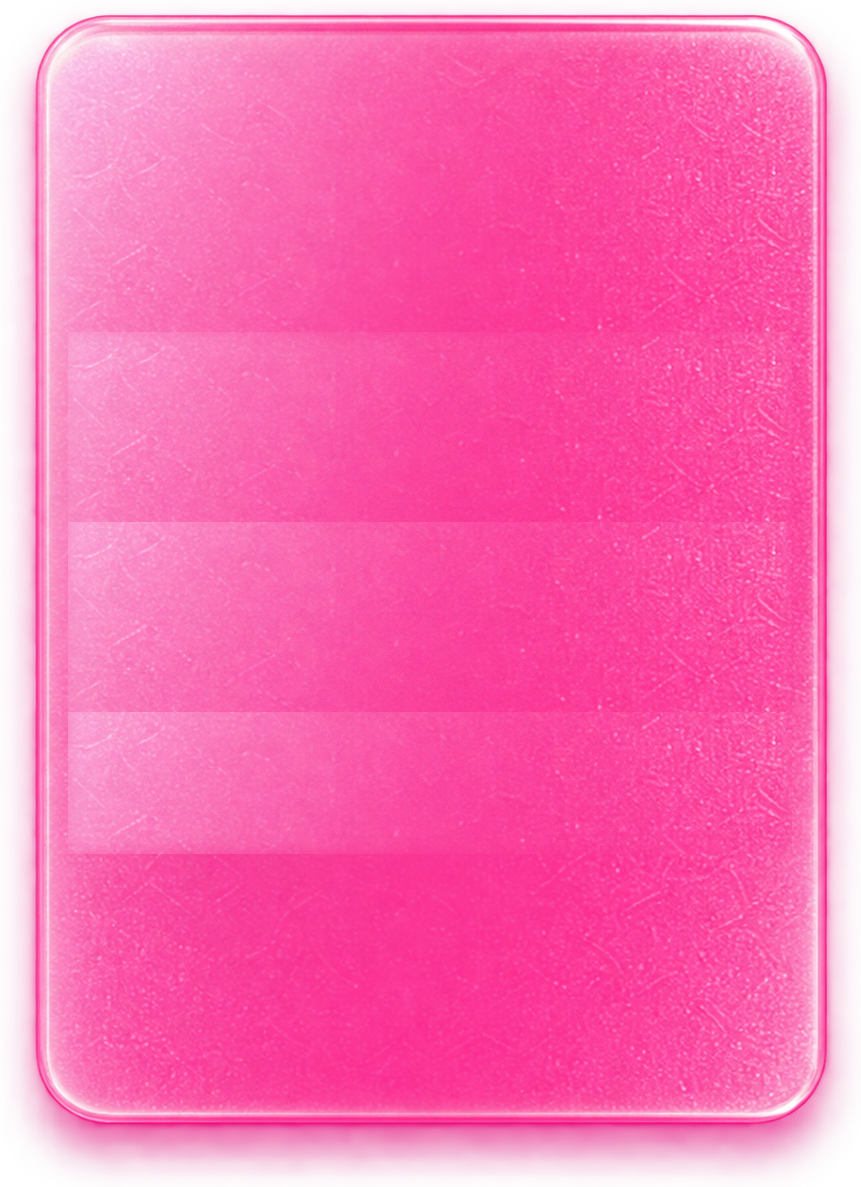
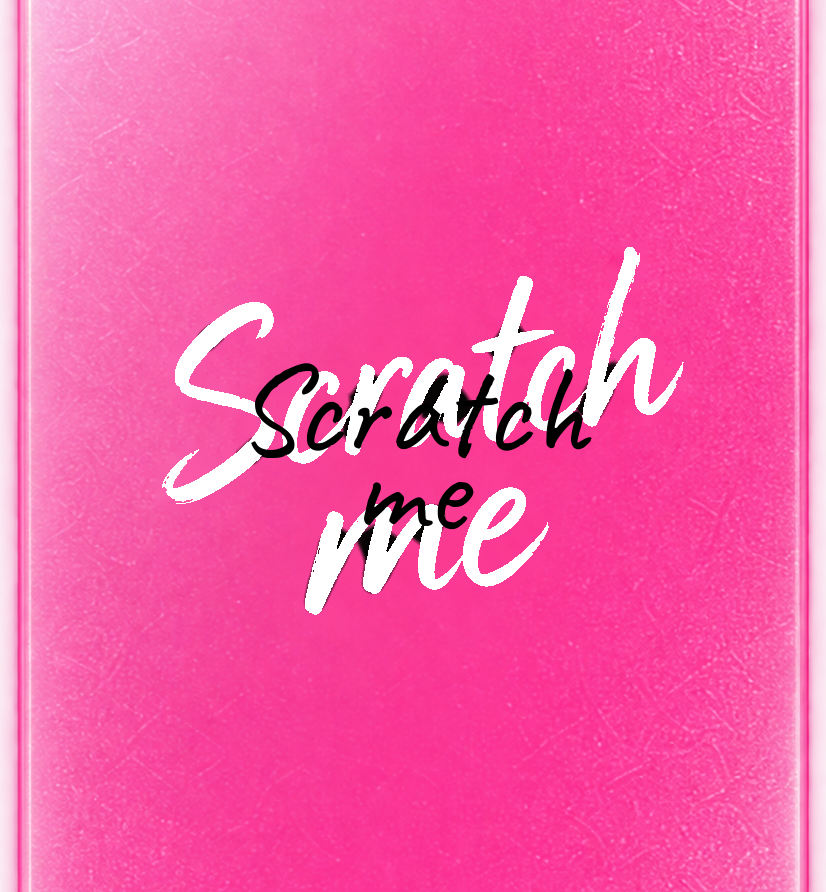
Unify compact scratch card and remove overlay light bars
Restore a smooth frosted overlay without tiled highlight bands, share
one fixed rounded wrapper for before/after states, and tighten the
white QR reveal so Scan Me sits closer with less empty space.

diff --git a/desktop-gate/styles.css b/desktop-gate/styles.css
@@ -94,7 +94,7 @@
     pointer-events: none;
   }
 
-  /* Scratch / QR — centred under “Designed to be held.” */
+  /* Scratch / QR — one shared outer card for before + after */
   .desktop-gate__qr-unit {
     position: absolute;
     left: 35.8%;
@@ -105,60 +105,60 @@
   }
 
   .scratch-card {
-    /* ~150% of prior clamp(4.5rem, 8.2vw, 6rem); aspect from overlay PNG */
     --scratch-w: clamp(6.75rem, 12.3vw, 9rem);
+    /* Compact soft-square — matches restored overlay aspect (~1.16) */
+    --scratch-ratio: 1.08;
+    --scratch-radius: 1.05rem;
     position: relative;
     width: var(--scratch-w);
-    height: calc(var(--scratch-w) * 1.379);
-    background: transparent !important;
-    border: 0 !important;
-    outline: none !important;
-    padding: 0 !important;
+    height: calc(var(--scratch-w) * var(--scratch-ratio));
+    background: transparent;
+    border: 0;
+    outline: none;
+    padding: 0;
     margin: 0;
-    overflow: visible;
-    box-shadow: none !important;
+    border-radius: var(--scratch-radius);
+    overflow: hidden;
+    box-shadow: 0 10px 22px rgba(60, 5, 30, 0.18);
   }
 
-  /*
-    White QR reveal — strictly inset to the opaque card body so it
-    cannot show through the PNG’s transparent glow / rounded corners.
-  */
+  /* White QR reveal — same outer footprint as the scratch overlay */
   .scratch-card__face {
     position: absolute;
     z-index: 0;
-    left: 4.2%;
-    right: 4.1%;
-    top: 1.35%;
-    bottom: 5.3%;
+    inset: 0;
     display: flex;
     flex-direction: column;
     align-items: center;
     justify-content: flex-start;
     box-sizing: border-box;
-    padding: 11% 11% 10%;
+    padding: 7% 8% 5%;
     margin: 0;
+    gap: 0.22em;
     background: #ffffff;
     border: 0;
     outline: none;
-    border-radius: 22%;
+    border-radius: inherit;
     box-shadow: none;
   }
 
   .scratch-card__qr {
     display: block;
-    width: 100%;
+    width: 80%;
     height: auto;
     aspect-ratio: 1;
     object-fit: contain;
+    flex-shrink: 0;
+    margin-top: 0;
     pointer-events: none;
     user-select: none;
     -webkit-user-drag: none;
   }
 
   .scratch-card__label {
-    margin: 0.45em 0 0;
+    margin: 0;
     font-family: "Instrument Sans", system-ui, sans-serif;
-    font-size: clamp(0.72rem, 1.2vw, 0.95rem);
+    font-size: clamp(0.7rem, 1.15vw, 0.9rem);
     font-weight: 700;
     letter-spacing: -0.01em;
     line-height: 1;
@@ -175,12 +175,12 @@
     display: block;
     touch-action: none;
     cursor: crosshair;
-    background: transparent !important;
-    border: 0 !important;
-    outline: none !important;
+    background: transparent;
+    border: 0;
+    outline: none;
     padding: 0;
     margin: 0;
-    /* PNG already includes its own soft shadow — no CSS glow/halo */
+    border-radius: inherit;
     filter: none;
     box-shadow: none;
   }

diff --git a/desktop-gate/gate.js b/desktop-gate/gate.js
@@ -51,27 +51,8 @@
       ctx.globalCompositeOperation = "source-over";
       ctx.clearRect(0, 0, canvas.width, canvas.height);
       ctx.setTransform(dpr, 0, 0, dpr, 0, 0);
-      // Frosted card PNG (no baked lettering)
+      // Supplied frosted overlay PNG (smooth frost + solid black script)
       ctx.drawImage(overlayImg, 0, 0, cssW, cssH);
-
-      // Clean solid-black script only — no stroke, shadow, or duplicate layer
-      const size = Math.max(18, cssW * 0.168);
-      const lineGap = size * 0.92;
-      ctx.fillStyle = "#000000";
-      ctx.textAlign = "center";
-      ctx.textBaseline = "middle";
-      ctx.font = '600 ' + size + 'px "Caveat", "Segoe Script", cursive';
-      // Reset any leftover canvas text effects
-      ctx.shadowColor = "transparent";
-      ctx.shadowBlur = 0;
-      ctx.shadowOffsetX = 0;
-      ctx.shadowOffsetY = 0;
-      ctx.lineWidth = 0;
-      const cx = cssW / 2;
-      const cy = cssH / 2 - cssH * 0.01;
-      ctx.fillText("Scratch", cx, cy - lineGap * 0.45);
-      ctx.fillText("me", cx, cy + lineGap * 0.55);
-
       initialAlpha = ctx.getImageData(0, 0, canvas.width, canvas.height).data.slice();
     }
 
@@ -176,26 +157,13 @@
     const canvas = document.querySelector("[data-scratch-canvas]");
     if (!canvas) return;
 
-    function start(overlayImg) {
-      initScratch(canvas, overlayImg);
-    }
-
     const img = new Image();
     img.decoding = "async";
     img.onload = function () {
-      if (document.fonts && document.fonts.load) {
-        document.fonts
-          .load('600 48px "Caveat"')
-          .catch(function () {})
-          .then(function () {
-            start(img);
-          });
-      } else {
-        start(img);
-      }
+      initScratch(canvas, img);
     };
     img.onerror = function () {
-      start(img);
+      initScratch(canvas, img);
     };
     img.src = OVERLAY_SRC;
   }

diff --git a/index.html b/index.html
@@ -16,7 +16,7 @@
     />
     <link rel="stylesheet" href="freedom/styles.css?v=about-42" />
     <link rel="stylesheet" href="about/theme.css?v=about-37" />
-    <link rel="stylesheet" href="desktop-gate/styles.css?v=gate-7" />
+    <link rel="stylesheet" href="desktop-gate/styles.css?v=gate-9" />
   </head>
   <body class="page-about">
     <div class="desktop-gate" aria-label="Open this portfolio on your phone">
@@ -703,6 +703,6 @@
 
     <script src="freedom/main.js?v=about-37" defer></script>
     <script src="about/about.js?v=about-37" defer></script>
-    <script src="desktop-gate/gate.js?v=gate-7" defer></script>
+    <script src="desktop-gate/gate.js?v=gate-9" defer></script>
   </body>
 </html>
